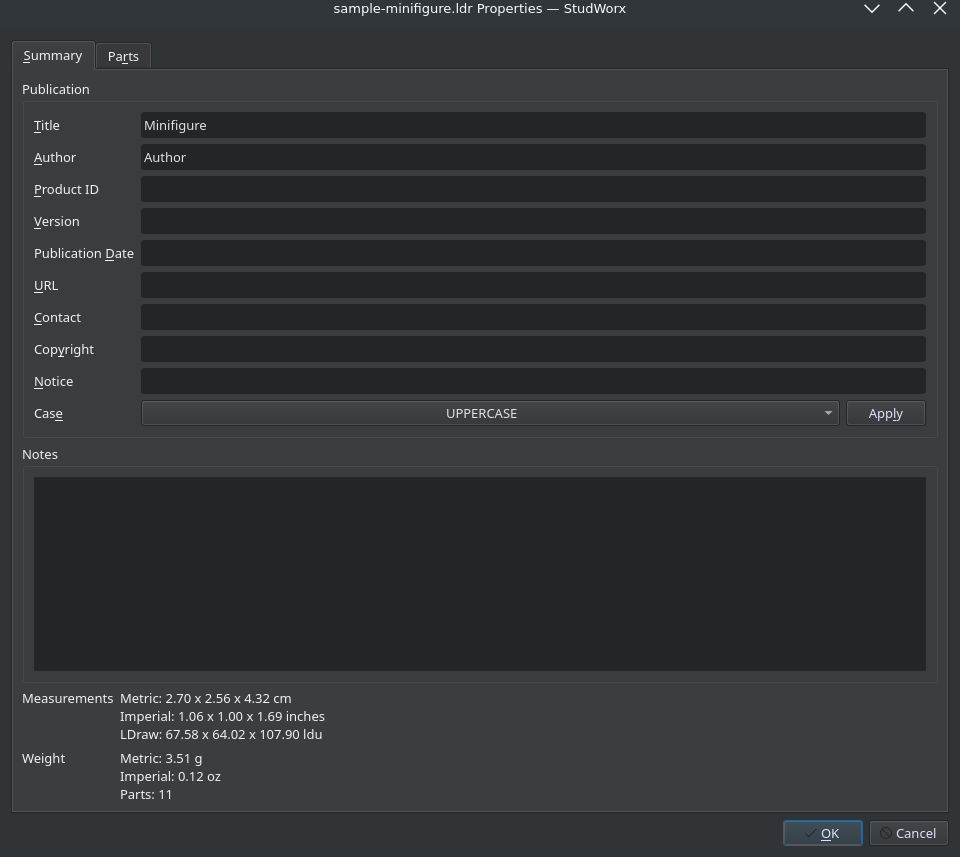
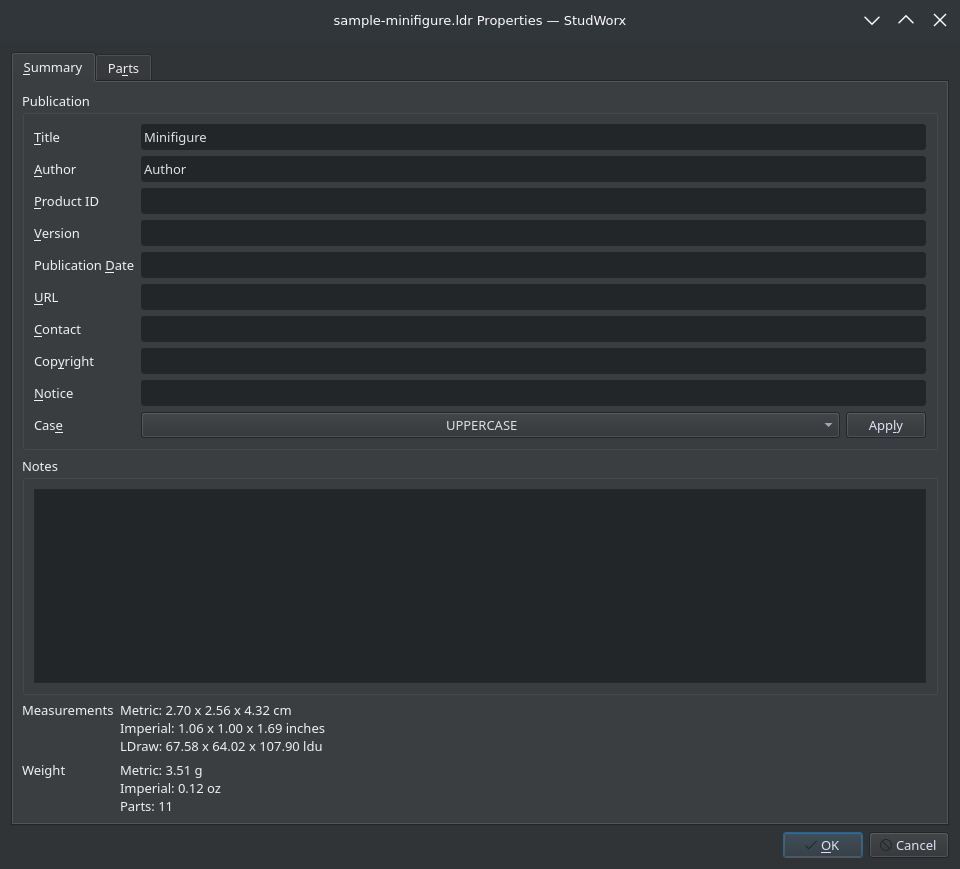
Code & Features Update

diff --git a/index.html b/index.html
@@ -1309,9 +1309,9 @@
 			</ul>
 
 			<div class="gallery scroll">
-				<figure style="--width-image: 960; --height-image: 857">
+				<figure style="--width-image: 960; --height-image: 869">
 					<button class="shot" data-full="resources/images/models-window-properties.png" aria-label="Enlarge Model properties">
-						<img src="resources/images/models-window-properties.png" alt="Model properties" width="960" height="857" loading="lazy">
+						<img src="resources/images/models-window-properties.png" alt="Model properties" width="960" height="869" loading="lazy">
 					</button>
 
 					<figcaption>Model properties</figcaption>
